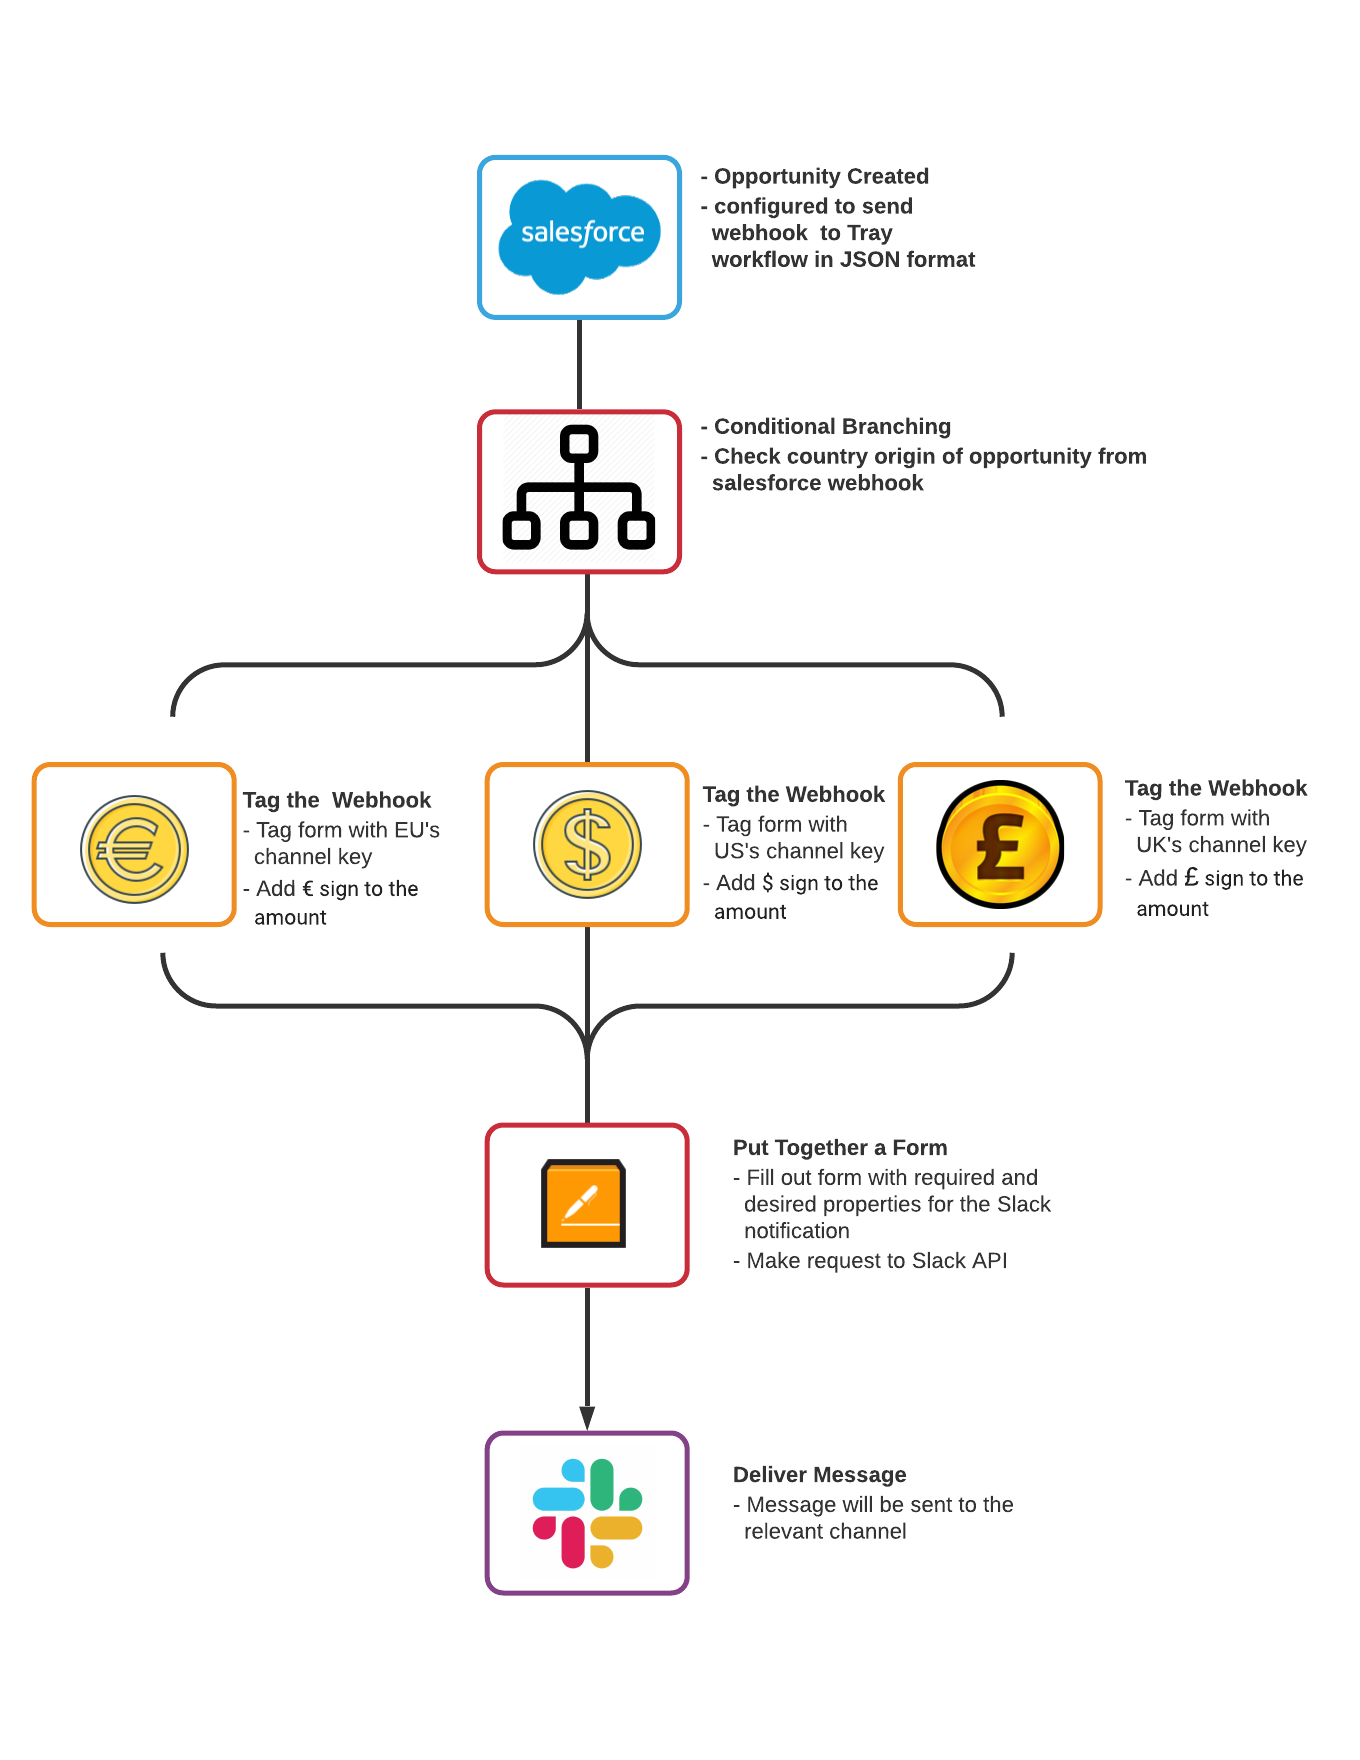
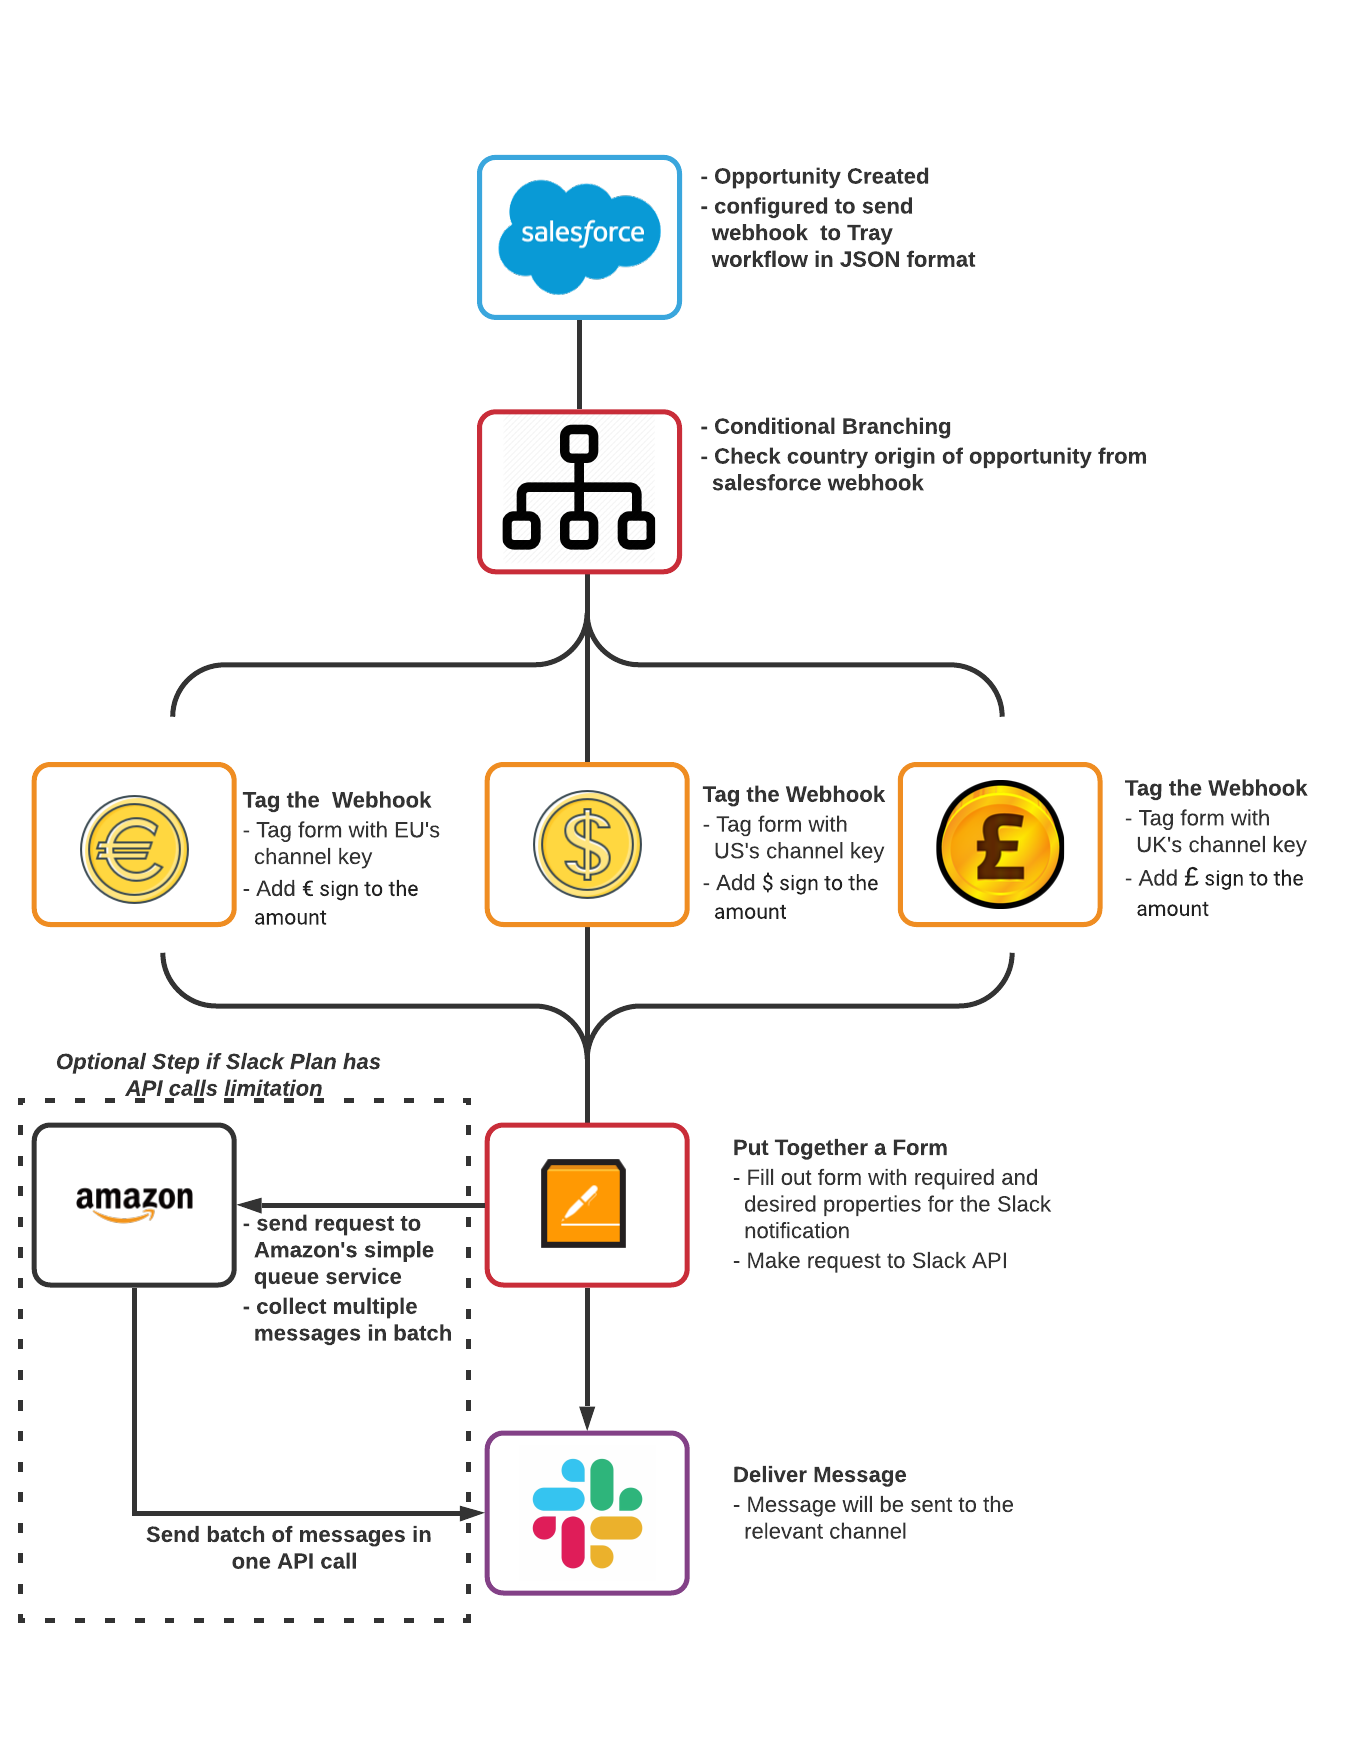
add amazon SQS to workflow

Changed region(s): [[0.0, 0.5938, 0.3706, 0.9062]]

diff --git a/README.md b/README.md
@@ -93,7 +93,25 @@ Now that we have all we needed, we will format the data into the way the Slack A
      }
 ```
 
+## (5.5) Batching Up Messages 
+If the version of Slack you are using is limited to 50 API calls per hour, this additional step may potential solve the problem. Using the `Amazon Simple Queue Services`(SQS), messages will first be sent to the queue and be bundle in batch. Once every 72 seconds, the SQS will make an API call to the Slack API requesting multiple messages to be post in a single call. By using the First-In-First-Out queque type (FIFO Queues), the messages will still be delivered in the order it was created. 
+
+![fifo demo](fifo.png)
+### Pros
+- A work-around for the API calls limitation to Slack
+- Messsge are still delivered in the order it was created
+
+### Cons
+- Message will not be delivered instantly as it was created
+- Delay can be up to 72 seconds
+
 ## (6)Check the Result
 To ensure everything is working as it is expected, one can test the integration by creating a new opportunity in Salesforce. If everything goes as planned, a notification will be sent to the relevant channel and the notification should look like this.
 
 ![notification demo](slack-notification.png)
+
+## (7) Other Resources
+- Tray Workflow Overview: https://tray.io/documentation/platform/overview/
+- Slack Documentation: 
+    - Posting Message: https://api.slack.com/methods/chat.postMessage#channels
+    - Constructing an Attachment: https://api.slack.com/docs/message-attachments
